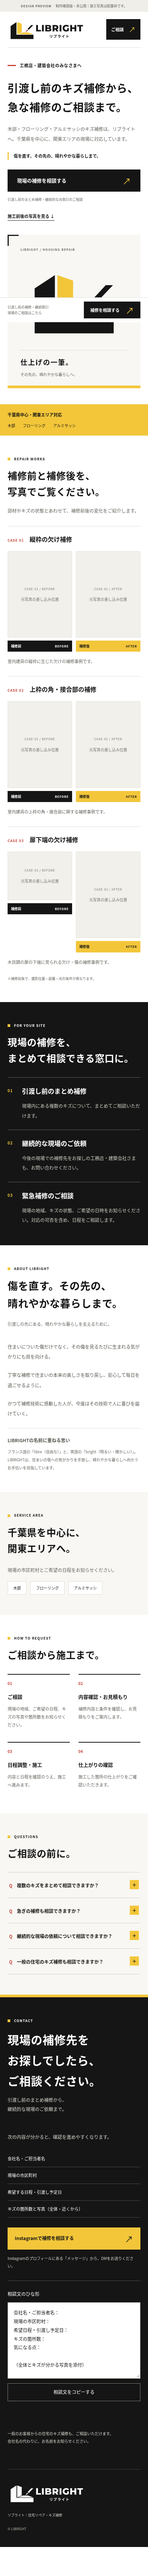
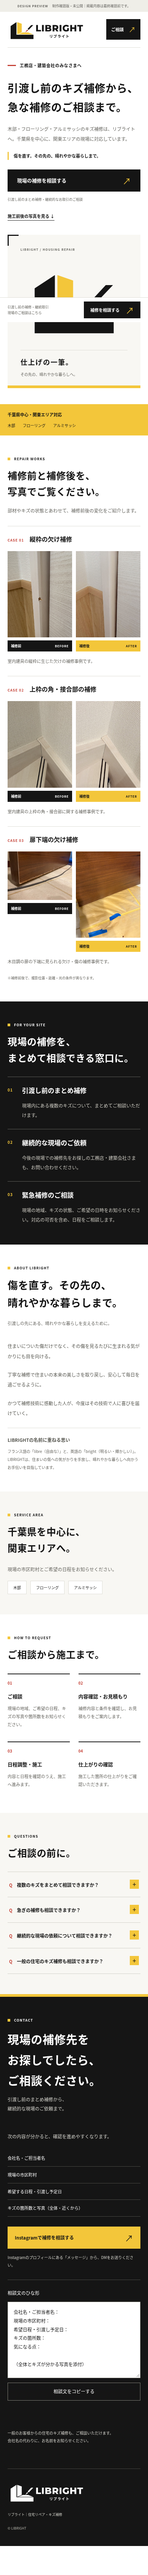
Insert original before-and-after photos and refresh LP previews

diff --git a/design/preview.html b/design/preview.html
@@ -280,7 +280,7 @@ h3 { font-size:17px; font-weight:700; line-height:1.8; margin:0; }
 </head>
 <body>
   <a class="skip-link" href="#main">本文へ移動</a>
-  <div class="review-bar"><span>DESIGN PREVIEW</span> 制作確認版・未公開｜施工写真は配置枠です。</div>
+  <div class="review-bar"><span>DESIGN PREVIEW</span> 制作確認版・未公開｜掲載内容は最終確認前です。</div>
   <header class="wrap site-header">
[1 lines of base64/hex data omitted]
     <nav class="navigation" aria-label="ページ内メニュー">
@@ -303,7 +303,7 @@ h3 { font-size:17px; font-weight:700; line-height:1.8; margin:0; }
[1 lines of base64/hex data omitted]
     </div>
     <div class="scope-band"><div class="wrap scope-line"><strong>千葉県中心・関東エリア対応</strong><div class="scope-materials"><span>木部</span><span>フローリング</span><span>アルミサッシ</span></div><span class="scope-caption">住宅リペア・キズ補修</span></div></div>
-    <section class="wrap" id="works"><div class="section-heading"><div><span class="section-label">REPAIR WORKS</span><h2>補修前と補修後を、<br>写真でご覧ください。</h2></div><p>部材やキズの状態とあわせて、補修前後の変化をご紹介します。</p></div><div class="case-list"><article class="case"><div class="case-heading"><span>CASE 01</span><h3>縦枠の欠け補修</h3></div><div class="photo-pair"><figure><div class="photo-placeholder" style="--ratio:3/4"><span>CASE-01 / BEFORE</span>元写真の差し込み位置</div><figcaption>補修前<span>BEFORE</span></figcaption></figure><figure><div class="photo-placeholder" style="--ratio:3/4"><span>CASE-01 / AFTER</span>元写真の差し込み位置</div><figcaption>補修後<span>AFTER</span></figcaption></figure></div><p class="case-description">室内建具の縦枠に生じた欠けの補修事例です。</p></article><article class="case"><div class="case-heading"><span>CASE 02</span><h3>上枠の角・接合部の補修</h3></div><div class="photo-pair"><figure><div class="photo-placeholder" style="--ratio:3/4"><span>CASE-02 / BEFORE</span>元写真の差し込み位置</div><figcaption>補修前<span>BEFORE</span></figcaption></figure><figure><div class="photo-placeholder" style="--ratio:3/4"><span>CASE-02 / AFTER</span>元写真の差し込み位置</div><figcaption>補修後<span>AFTER</span></figcaption></figure></div><p class="case-description">室内建具の上枠の角・接合部に関する補修事例です。</p></article><article class="case"><div class="case-heading"><span>CASE 03</span><h3>扉下端の欠け補修</h3></div><div class="photo-pair"><figure><div class="photo-placeholder" style="--ratio:4/3"><span>CASE-03 / BEFORE</span>元写真の差し込み位置</div><figcaption>補修前<span>BEFORE</span></figcaption></figure><figure><div class="photo-placeholder" style="--ratio:3/4"><span>CASE-03 / AFTER</span>元写真の差し込み位置</div><figcaption>補修後<span>AFTER</span></figcaption></figure></div><p class="case-description">木目調の扉の下端に見られる欠け・傷の補修事例です。</p></article></div><p class="photo-note">※補修前後で、撮影位置・距離・光の条件が異なります。</p></section>
+    <section class="wrap" id="works"><div class="section-heading"><div><span class="section-label">REPAIR WORKS</span><h2>補修前と補修後を、<br>写真でご覧ください。</h2></div><p>部材やキズの状態とあわせて、補修前後の変化をご紹介します。</p></div><div class="case-list"><article class="case"><div class="case-heading"><span>CASE 01</span><h3>縦枠の欠け補修</h3></div><div class="photo-pair"><figure><button class="photo-button" type="button" aria-label="縦枠の欠け補修｜補修前の写真全体を拡大" data-photo-src="assets/cases/case-01-before.jpg" data-photo-alt="縦枠の化粧面に欠けが見える補修前の写真" data-photo-caption="縦枠の欠け補修｜補修前"><img class="original-photo" src="assets/cases/case-01-before.jpg" alt="縦枠の化粧面に欠けが見える補修前の写真" loading="lazy" decoding="async"></button><figcaption>補修前<span>BEFORE</span></figcaption></figure><figure><button class="photo-button" type="button" aria-label="縦枠の欠け補修｜補修後の写真全体を拡大" data-photo-src="assets/cases/case-01-after.jpg" data-photo-alt="同じ縦枠を補修後として撮影した写真" data-photo-caption="縦枠の欠け補修｜補修後"><img class="original-photo" src="assets/cases/case-01-after.jpg" alt="同じ縦枠を補修後として撮影した写真" loading="lazy" decoding="async"></button><figcaption>補修後<span>AFTER</span></figcaption></figure></div><p class="case-description">室内建具の縦枠に生じた欠けの補修事例です。</p></article><article class="case"><div class="case-heading"><span>CASE 02</span><h3>上枠の角・接合部の補修</h3></div><div class="photo-pair"><figure><button class="photo-button" type="button" aria-label="上枠の角・接合部の補修｜補修前の写真全体を拡大" data-photo-src="assets/cases/case-02-before.jpg" data-photo-alt="木目調の上枠の角・接合部を写した補修前の写真" data-photo-caption="上枠の角・接合部の補修｜補修前"><img class="original-photo" src="assets/cases/case-02-before.jpg" alt="木目調の上枠の角・接合部を写した補修前の写真" loading="lazy" decoding="async"></button><figcaption>補修前<span>BEFORE</span></figcaption></figure><figure><button class="photo-button" type="button" aria-label="上枠の角・接合部の補修｜補修後の写真全体を拡大" data-photo-src="assets/cases/case-02-after.jpg" data-photo-alt="同じ上枠の角・接合部を補修後として撮影した写真" data-photo-caption="上枠の角・接合部の補修｜補修後"><img class="original-photo" src="assets/cases/case-02-after.jpg" alt="同じ上枠の角・接合部を補修後として撮影した写真" loading="lazy" decoding="async"></button><figcaption>補修後<span>AFTER</span></figcaption></figure></div><p class="case-description">室内建具の上枠の角・接合部に関する補修事例です。</p></article><article class="case"><div class="case-heading"><span>CASE 03</span><h3>扉下端の欠け補修</h3></div><div class="photo-pair"><figure><button class="photo-button" type="button" aria-label="扉下端の欠け補修｜補修前の写真全体を拡大" data-photo-src="assets/cases/case-03-before.jpg" data-photo-alt="木目調の扉の下端に欠けと擦れが見える補修前の写真" data-photo-caption="扉下端の欠け補修｜補修前"><img class="original-photo" src="assets/cases/case-03-before.jpg" alt="木目調の扉の下端に欠けと擦れが見える補修前の写真" loading="lazy" decoding="async"></button><figcaption>補修前<span>BEFORE</span></figcaption></figure><figure><button class="photo-button" type="button" aria-label="扉下端の欠け補修｜補修後の写真全体を拡大" data-photo-src="assets/cases/case-03-after.jpg" data-photo-alt="扉の下端を補修後として撮影した写真" data-photo-caption="扉下端の欠け補修｜補修後"><img class="original-photo" src="assets/cases/case-03-after.jpg" alt="扉の下端を補修後として撮影した写真" loading="lazy" decoding="async"></button><figcaption>補修後<span>AFTER</span></figcaption></figure></div><p class="case-description">木目調の扉の下端に見られる欠け・傷の補修事例です。</p></article></div><p class="photo-note">※補修前後で、撮影位置・距離・光の条件が異なります。</p></section>
     <section class="services-section" id="services">
       <div class="wrap">
         <div class="section-heading"><div><span class="section-label">FOR YOUR SITE</span><h2>現場の補修を、<br>まとめて相談できる窓口に。</h2></div></div>

diff --git a/scripts/verify_browser.py b/scripts/verify_browser.py
@@ -22,7 +22,7 @@ thread = threading.Thread(target=server.serve_forever, daemon=True)
 thread.start()
 origin = f'http://127.0.0.1:{server.server_port}'
 report = {'pageErrors': [], 'failedRequests': [], 'viewports': [], 'checks': {}, 'limits': [
-    '元写真ファイルが未取得のため、実写真の表示・ハッシュ検証・拡大表示の実動作は未検証。',
+    '施工写真6枚の表示・元ファイル一致・拡大表示を検証。施工の詳細と掲載条件の最終確認は別途必要。',
     'Instagramの外部通信はテストで代替し、遷移先URLを確認した。実アカウントの表示、DM画面と送受信は未検証。',
     'ローカルの確認版を検証。GitHubや他ホスティングへは未公開。',
     'file://の直接起動は実行環境の管理ポリシーで遮断されるため、単体HTMLの内容をブラウザへ読み込んで確認。'
@@ -41,7 +41,10 @@ try:
                 assert response.status == 200
                 assert page.locator('h1').count() == 1
                 assert page.locator('.case').count() == 3
-                assert page.locator('.photo-placeholder').count() == 6
+                assert page.locator('.photo-placeholder').count() == 0
+                for photo in page.locator('.original-photo').all():
+                    photo.scroll_into_view_if_needed()
+                page.evaluate('window.scrollTo(0, 0)')
                 page.wait_for_function('Array.from(document.querySelectorAll("img[src]")).every(img => img.complete && img.naturalWidth > 0)')
                 for selector in ['.brand-image', '.footer-logo']:
                     dimensions = page.locator(selector).evaluate('(img) => ({width: img.getBoundingClientRect().width, height: img.getBoundingClientRect().height, ratio: img.naturalWidth / img.naturalHeight})')
@@ -52,13 +55,25 @@ try:
                 assert not overflow, f'horizontal overflow at {width}px'
                 assert page.locator('#pricing').count() == 0
                 assert page.locator('.partner-section').count() == 0
-                assert page.locator('.original-photo').count() == 0
+                assert page.locator('.original-photo').count() == 6
+                for photo in page.locator('.original-photo').all():
+                    dimensions = photo.evaluate('(img) => ({width: img.clientWidth, height: img.clientHeight, ratio: img.naturalWidth / img.naturalHeight, fit: getComputedStyle(img).objectFit, filter: getComputedStyle(img).filter})')
+                    assert abs(dimensions['width'] / dimensions['height'] - dimensions['ratio']) < .02
+                    assert dimensions['fit'] == 'contain' and dimensions['filter'] == 'none'
                 if width in (390, 1440):
                     page.screenshot(path=str(QA / f'preview-{width}.png'), full_page=True)
                     page.screenshot(path=str(QA / f'preview-top-{width}.png'))
                 report['viewports'].append({'width': width, 'height': height, 'http': response.status, 'horizontalOverflow': overflow})
             page.set_viewport_size({'width': 390, 'height': 844})
             page.goto(origin + '/', wait_until='networkidle')
+            for trigger in page.locator('.photo-button').all():
+                trigger.click()
+                assert page.locator('#photo-dialog').evaluate('(el) => el.open')
+                page.wait_for_function('document.querySelector("#dialog-image").complete && document.querySelector("#dialog-image").naturalWidth > 0')
+                assert page.locator('#dialog-image').get_attribute('src') == trigger.get_attribute('data-photo-src')
+                page.keyboard.press('Escape')
+                assert trigger.evaluate('(el) => document.activeElement === el')
+            report['checks']['allSixPhotosOpenOriginalAndReturnFocus'] = True
             page.locator('.hero .button').click()
             assert page.evaluate('location.hash') == '#contact'
             report['checks']['heroToContact'] = True
@@ -95,7 +110,9 @@ try:
             fallback.close()
             offline = browser.new_context(java_script_enabled=False)
             offline_page = offline.new_page()
-            offline_page.set_content((ROOT / 'design/preview.html').read_text(encoding='utf-8'), wait_until='load')
+            offline_page.set_content((ROOT / 'design/preview.html').read_text(encoding='utf-8').replace('<head>', '<head><base href="' + origin + '/">'), wait_until='load')
+            for photo in offline_page.locator('.original-photo').all():
+                photo.scroll_into_view_if_needed()
             assert offline_page.locator('h1').is_visible()
             assert offline_page.locator('.instagram-link').get_attribute('href') == 'https://www.instagram.com/libright_chiba/'
             assert offline_page.locator('#message-template').input_value()

diff --git a/scripts/build.py b/scripts/build.py
@@ -173,7 +173,7 @@ def render(data, review):
     business_html = ''
     if business.get('publishDetails'):
         business_html = '<div class="business-details">' + '<br>'.join(esc(business[key]) for key in ['publicRepresentativeName', 'publicAddress'] if business.get(key)) + '</div>'
-    review_bar = '<div class="review-bar"><span>DESIGN PREVIEW</span> 制作確認版・未公開｜施工写真は配置枠です。</div>' if review else ''
+    review_bar = '<div class="review-bar"><span>DESIGN PREVIEW</span> 制作確認版・未公開｜掲載内容は最終確認前です。</div>' if review else ''
     values = {
         'ROBOTS': 'noindex,nofollow' if review else 'index,follow',
         'TITLE': esc('工務店・建築会社向け住宅リペア｜千葉・関東｜LIBRIGHT'),

diff --git a/docs/QA_REPORT.md b/docs/QA_REPORT.md
@@ -29,7 +29,7 @@
 
 ## 残る確認
 
-- 元写真は会話上の表示だけで、ファイルとして未取得。実写真の読み込み、元ファイルとのSHA-256一致、写真の全体表示と拡大操作は未検証。
+- 施工写真6枚の受領・配置とSHA-256一致、全体表示・拡大操作を確認済み。施工内容と掲載条件の最終確認は残る。
 - 正式ロゴはリポジトリから取り込み済み。ヘッダー、冒頭、フッター、faviconへ反映し、ロゴに合わせたLP再構成後の表示を確認済み。
 - ブランド紹介は追加のユーザー指示で確定した対外コンセプトへ更新。人物の公開名・事業者情報、施工の流れ、各事例の内容・掲載条件は確認待ちの情報を含む。
 - Instagramの実アカウント表示、プロフィールからのDM経路、送受信は未検証。DMは送信していない。
@@ -62,3 +62,11 @@
 - 独立したAI担当の静的点検でも、ガイドとの整合性、ロゴの無変形・無再着色、未確定情報の扱いについて必須修正なし。
 - 施工写真は未取得のまま6枠を表示。原写真の編集・変換・圧縮は行っていない。実写真の読み込みと拡大は引き続き確認待ち。
 - 最新の実行記録は `qa/browser-report.json`、確認画像は `design/previews/`。Web公開設定は変更していない。
+
+## 施工写真6枚の反映後
+
+- 320/390/768/1440pxで写真6枚の読み込み成功、元の縦横比・全体表示、横はみ出しなし。
+- 全6枚が同じ原写真で拡大し、Escapeで閉じて元のボタンへフォーカスが戻ることを確認。ページエラー・失敗リクエストなし。
+- 受領したJPEGとsite・design・dist-reviewのコピーのSHA-256が全6枚一致。対応表はPHOTO_REGISTER.md。
+- 相談文コピー、手動コピー代替、FAQ、ページ内導線、Instagramリンク先も合格。実DMやWeb公開は未実施。
+- 確認用HTMLには写真の相対参照があるため、assetsフォルダを一緒に渡す。

diff --git a/docs/PHOTO_REGISTER.md b/docs/PHOTO_REGISTER.md
@@ -14,9 +14,16 @@
 
 ## 受領状態
 
-会話内の表示は確認済みだが、元画像のファイル参照・添付ID・ダウンロード可能な実体は現時点で作業環境に渡っていない。
-`/workspace` の素材用フォルダとアクセス可能な `/tmp` の画像候補を調べた範囲では、該当するJPEG/PNG等は見つからなかった。
-したがって「元ファイルを保存済み」「サイトへ実画像を組み込み済み」とは扱わない。表示された写真を生成画像で再現しない。
+GitHubのf770b55でアップロードされたJPEG6枚を取得。会話内の写真と照合し、3組を確認版へ配置した。受領ファイルとsite・design・dist-reviewの配信用コピーはSHA-256で全6枚一致。掲載条件と施工内容の最終確認フラグは維持。
+
+| 対応 | 受領ファイル | SHA-256 |
+| --- | --- | --- |
[6 lines of base64/hex data omitted]
 
 ## 仮の対応付け
 

diff --git a/design/previews/README.md b/design/previews/README.md
@@ -1,8 +1,8 @@
 # LIBRIGHT｜正式ロゴに合わせたLPプレビュー
 
-非公開の制作確認版。施工写真は原本ファイル待ちのため配置枠です。料金は未確定のため非表示。
+非公開の制作確認版。施工写真3組・計6枚を無加工で配置済みです。料金は未確定のため非表示。
 
-動作する確認版は [単体HTML](../preview.html) をダウンロードしてブラウザで開いてください。ロゴとマークをHTMLに含めているため、追加のファイルは不要です。
+動作する確認版は [HTML](../preview.html) と [写真フォルダ](../assets/cases/) を相対位置を保ってダウンロードしてください。確認用ZIPでは展開後にpreview.htmlを開きます。ロゴはHTML内、写真は元JPEGをそのまま参照します。
 
 ## PC
 
